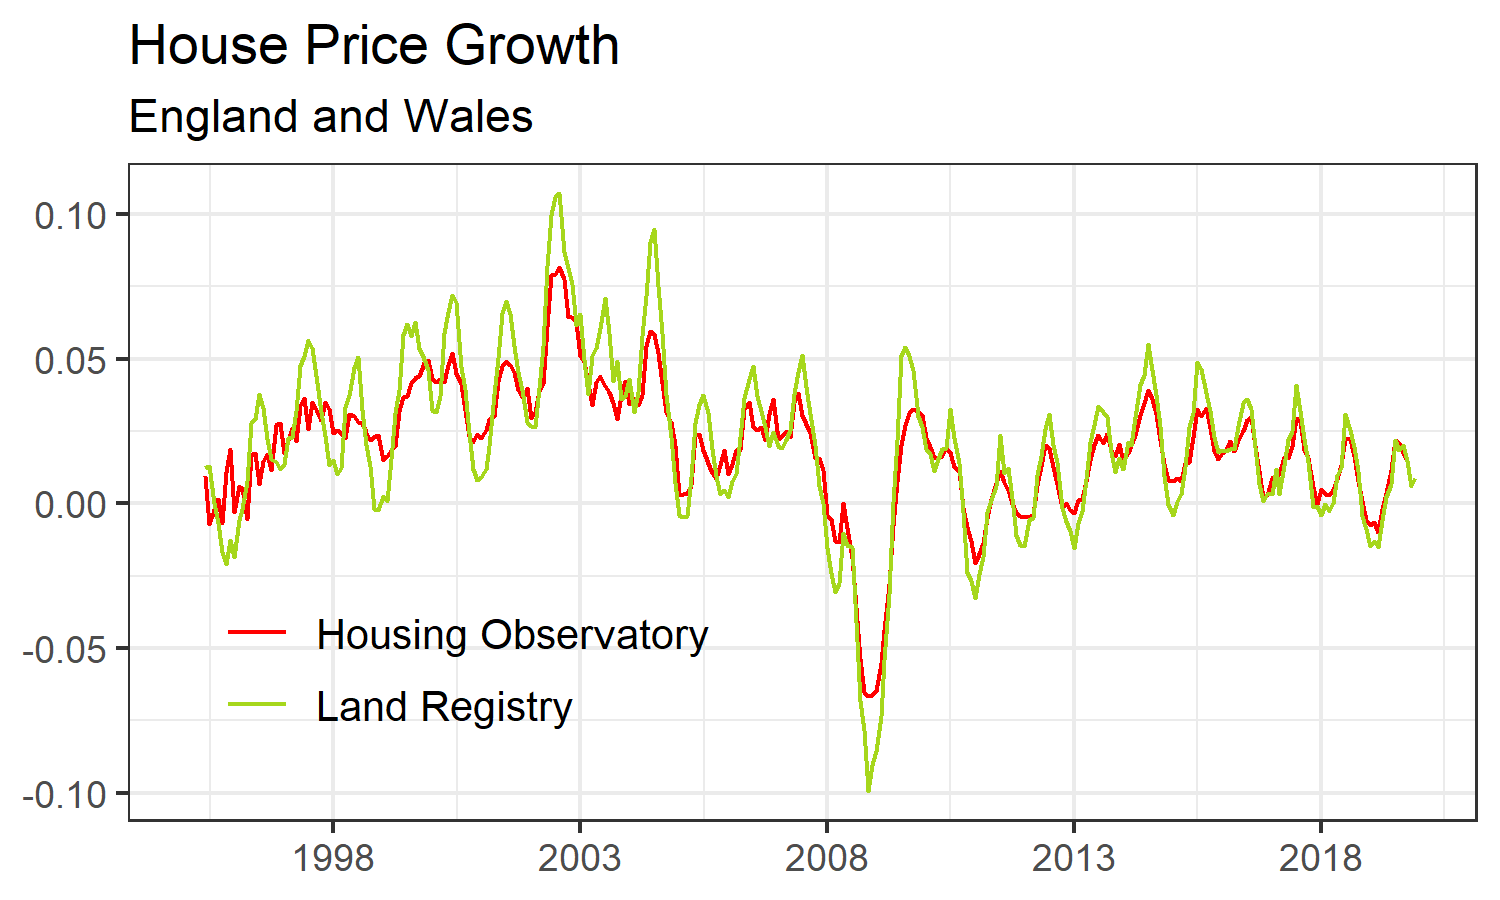
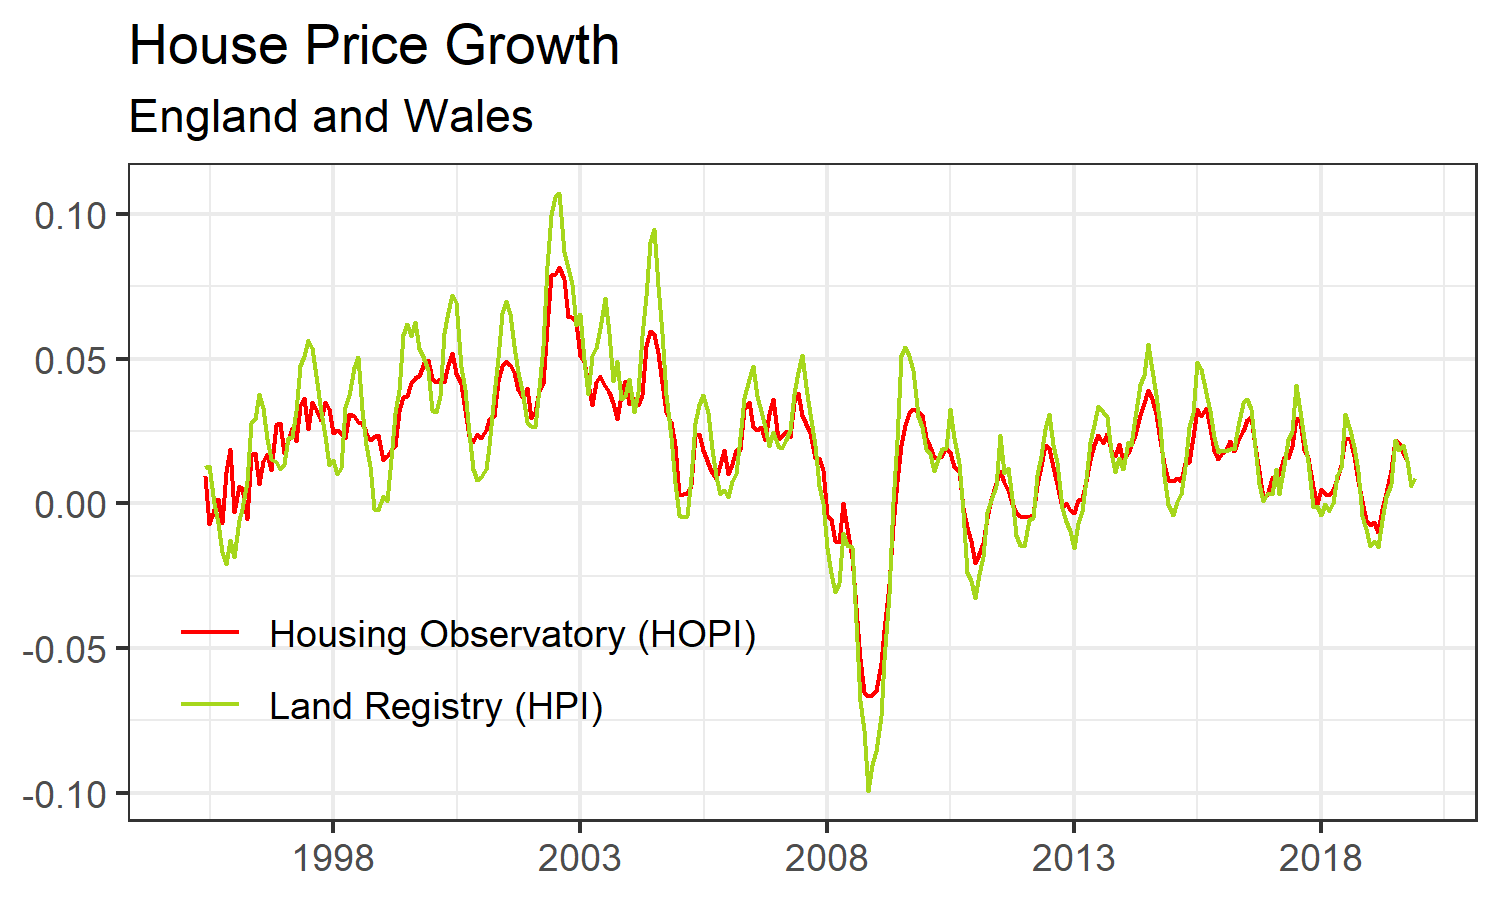
change statistics and graph

Changed region(s): [[0.1227, 0.6844, 0.5213, 0.8089]]

diff --git a/output/stat.js b/output/stat.js
@@ -1,4 +1,4 @@
-var txt = '{"release":["2019 Q4"],"price_uk":[-0.6],"price_london":[-3.26],"afford_uk":[-0.6],"afford_london":[-3.26]}';
+var txt = '{"release":["2019 Q4"],"price_uk":[-0.6],"price_london":[-3.26],"afford_uk":[-0.23],"afford_london":[-3.09]}';
 var obj = JSON.parse(txt);
 document.getElementById("js-release").innerHTML = "Release: <br>" + obj.release;
 document.getElementById("js-price-uk").innerHTML = obj.price_uk + " %";
